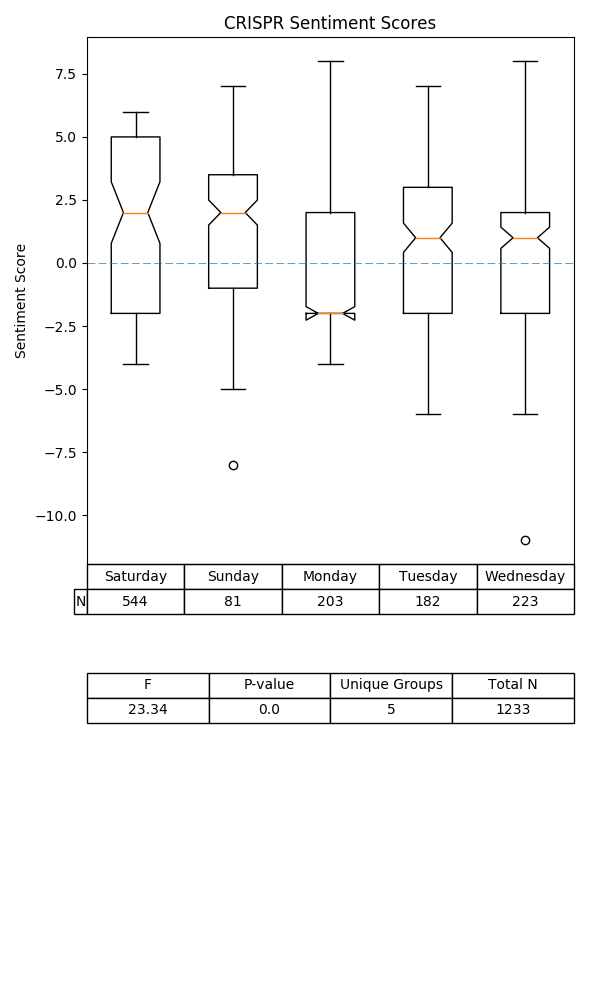
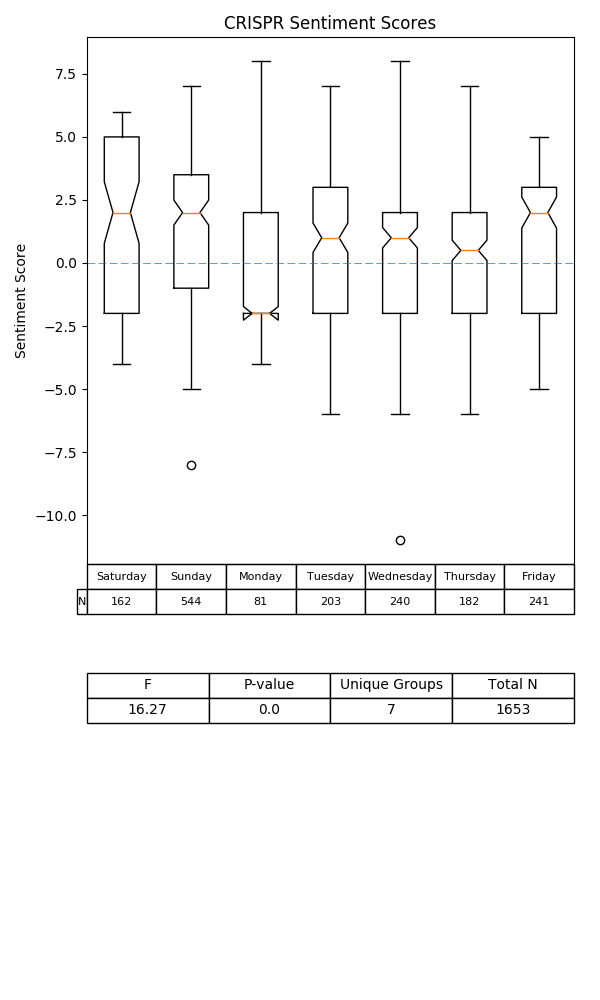
Reformatted boxplots to include Friday Tweets.

diff --git a/Scripts/Analyses - ALL/Python ANOVA and Boxplot.py b/Scripts/Analyses - ALL/Python ANOVA and Boxplot.py
@@ -12,12 +12,16 @@ sundaytweets = df.loc[df['tweetweekday'] == 'Sunday']
 mondaytweets = df.loc[df['tweetweekday'] == 'Monday']
 tuesdaytweets = df.loc[df['tweetweekday'] == 'Tuesday']
 wednesdaytweets = df.loc[df['tweetweekday'] == 'Wednesday']
+thursdaytweets = df.loc[df['tweetweekday'] == 'Thursday']
+fridaytweets = df.loc[df['tweetweekday'] == 'Friday']
 
 satcleanscores = saturdaytweets.Tweettextscore.dropna()
 suncleanscores = sundaytweets.Tweettextscore.dropna()
 moncleanscores = mondaytweets.Tweettextscore.dropna()
 tuescleanscores = tuesdaytweets.Tweettextscore.dropna()
 wedscleanscores = wednesdaytweets.Tweettextscore.dropna()
+thurscleanscores = thursdaytweets.Tweettextscore.dropna()
+fricleanscores = fridaytweets.Tweettextscore.dropna()
 
 grps = pd.unique(df.tweetweekday.values)
 d_df = {grp:df['Tweettextscore'][df.tweetweekday == grp] for grp in grps}
@@ -30,10 +34,12 @@ n1 = df.groupby('tweetweekday').size()[1]
 n2 = df.groupby('tweetweekday').size()[2]
 n3 = df.groupby('tweetweekday').size()[3]
 n4 = df.groupby('tweetweekday').size()[4]
+n5 = df.groupby('tweetweekday').size()[5]
+n6 = df.groupby('tweetweekday').size()[6]
 
-NValueslist = [n0, n1, n2, n3, n4]
+NValueslist = [n0, n1, n2, n3, n4, n5, n6]
 
-f, p = stats.f_oneway(d_df['Saturday'], d_df['Sunday'], d_df['Monday'], d_df['Tuesday'], d_df['Wednesday'])
+f, p = stats.f_oneway(d_df['Saturday'], d_df['Sunday'], d_df['Monday'], d_df['Tuesday'], d_df['Wednesday'], d_df['Thursday'], d_df['Friday'])
 
 p = round(p, 6)
 f = round(f, 2)
@@ -43,16 +49,16 @@ statnames = ['F', 'P-value', 'Unique Groups', 'Total Tweets Analyzed']
 
 fig = plt.figure(1, figsize=(6, 10))
 plt.subplot(2,1,1)
-plt.boxplot([satcleanscores.values, suncleanscores, moncleanscores, tuescleanscores, wedscleanscores], notch=True)
+plt.boxplot([satcleanscores.values, suncleanscores, moncleanscores, tuescleanscores, wedscleanscores, thurscleanscores, fricleanscores], notch=True)
 frame1 = plt.gca()
 frame1.axes.get_xaxis().set_visible(False)
 plt.axhline(y=0, lw=0.5, ls='dashed')
 plt.ylabel('Sentiment Score')
 plt.title('John Cena Sentiment Scores')
 
-table1 = plt.table(cellText=[NValueslist], colLabels=['Saturday', 'Sunday', 'Monday', 'Tuesday', 'Wednesday'], loc='bottom', cellLoc='center', rowLabels=['N'])
+table1 = plt.table(cellText=[NValueslist], colLabels=['Saturday', 'Sunday', 'Monday', 'Tuesday', 'Wednesday', 'Thursday', 'Friday'], loc='bottom', cellLoc='center', rowLabels=['N'])
 table1.auto_set_font_size(False)
-table1.set_fontsize(10)
+table1.set_fontsize(8)
 
 plt.subplot(2,1,2)
 table2 = plt.table(label=['ANOVA'], cellText=[statanswers], loc='center', cellLoc='center', colLabels=['F', 'P-value', 'Unique Groups', 'Total N'])

diff --git a/Data/Scripts/DF Cleaner.py b/Data/Scripts/DF Cleaner.py
@@ -7,13 +7,14 @@ from datetime import datetime
 
 #this script opens two different JSON docs from my tweet streamers, compiles them into a big list, converts to a dataframe, then dumps them into a .pkl file. Neat!
 
-rawdata1 = open('C:\Users\m144851\Desktop\Github '
-                'Projects\Donald-vs-CRISPR\Data\Raw\MysteryTweets2017-06-20+00.json').read()
+name = 'CRISPR'
+
+rawdata1 = open('C:\Users\m144851\Desktop\Github Projects\Donald-vs-CRISPR\Data\Raw\CRISPRTweets2017-06-21+00.json').read()
 
 #rawdata2 = open('C:\Users\m144851\Desktop\Github '
 #                'Projects\Donald-vs-CRISPR\Data\Raw\DJTTweets2017-06-21+00.json').read()
 
-cleandata1 = pd.read_pickle('C:\Users\m144851\Desktop\Github Projects\Donald-vs-CRISPR\Data\Clean\AllMysteryTweetsdataframe.pkl')
+cleandata1 = pd.read_pickle('C:\Users\m144851\Desktop\Github Projects\Donald-vs-CRISPR\Data\Clean\All' + name + 'Tweetsdataframe.pkl')
 
 dict_list1 = [d.strip() for d in rawdata1.splitlines()]
 #dict_list2 = [d.strip() for d in rawdata2.splitlines()]
@@ -41,7 +42,7 @@ df = pd.DataFrame(tweetlist1)
 newdf = pd.concat([df, cleandata1], ignore_index=True)
 
 doc = open(
-    'C:\Users\m144851\Desktop\Github Projects\Donald-vs-CRISPR\AFINN-en-165.txt',
+    'C:\Users\m144851\Desktop\Github Projects\Donald-vs-CRISPR\Resources\AFINN-en-165.txt',
     'r')
 
 scores = {}
@@ -91,4 +92,4 @@ def weekday(datetimeday):
 
 newdf['tweetweekday'] = newdf.tweetdatetime.apply(weekday)
 
-newdf.to_pickle('AllMysteryTweetsdataframe-1.pkl')
+newdf.to_pickle('All'+ name + 'Tweetsdataframe.pkl')
